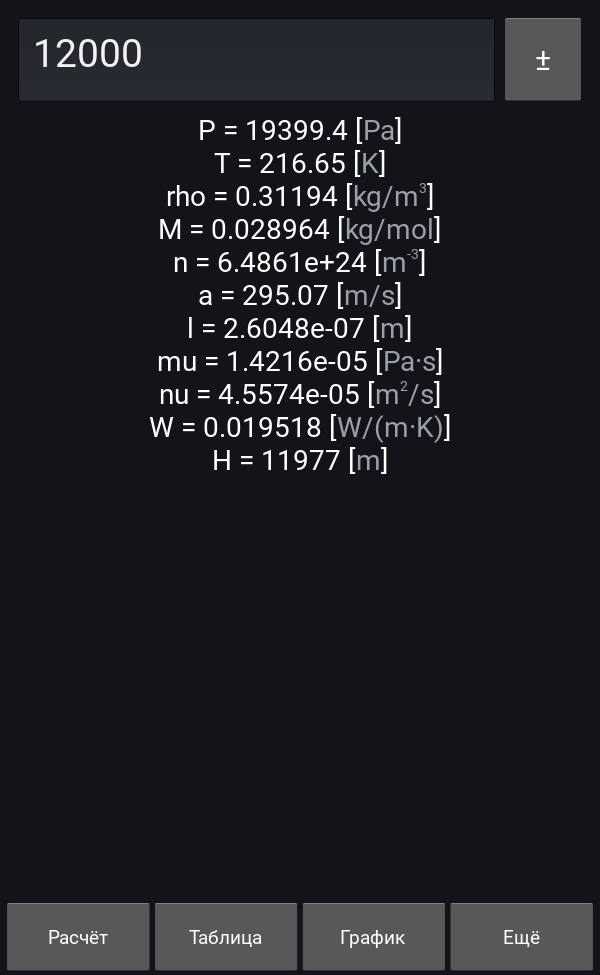
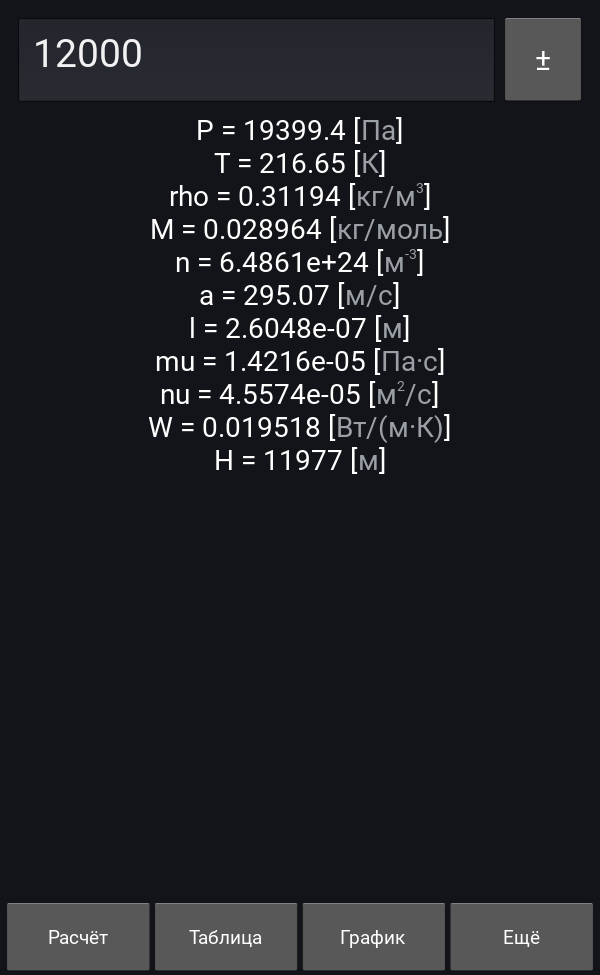
fix: localize parameter units on the calculation screen
- units come from i18n: Па/К/кг/м^3... in Russian, Pa/K/... in English
- parameter definitions keep translation keys instead of hard-coded units
- tests check that every unit key exists and follows the language

diff --git a/std81/formatting.py b/std81/formatting.py
@@ -1,14 +1,16 @@
 """Presentation of atmosphere parameters.
 
 The model returns SI floats; this module knows how to turn them into strings
-and which units and symbols to show.  UI-specific markup (Kivy, HTML, ...) is
-applied by the caller, not here.
+and which units and symbols to show.  Units are translated with
+:mod:`std81.i18n`.  UI-specific markup (Kivy, HTML, ...) is applied by the
+caller, not here.
 """
 
 from dataclasses import dataclass
 from math import floor, log10
 from typing import Optional, Tuple
 
+from . import i18n
 from .atmosphere import AtmosphereState
 
 
@@ -18,22 +20,22 @@ class Parameter:
 
     symbol: str
     attribute: str
-    unit: str
+    unit_key: str
     digits: int = 5
 
 
 PARAMETERS: Tuple[Parameter, ...] = (
-    Parameter('P', 'pressure', 'Pa', 6),
-    Parameter('T', 'temperature', 'K'),
-    Parameter('rho', 'density', 'kg/m^3'),
-    Parameter('M', 'molar_mass', 'kg/mol'),
-    Parameter('n', 'concentration', 'm^-3'),
-    Parameter('a', 'sound_speed', 'm/s'),
-    Parameter('l', 'mean_free_path', 'm'),
-    Parameter('mu', 'dynamic_viscosity', 'Pa\u00b7s'),
-    Parameter('nu', 'kinematic_viscosity', 'm^2/s'),
-    Parameter('W', 'thermal_conductivity', 'W/(m\u00b7K)'),
-    Parameter('H', 'geopotential_height', 'm'),
+    Parameter('P', 'pressure', 'unit_pa', 6),
+    Parameter('T', 'temperature', 'unit_k'),
+    Parameter('rho', 'density', 'unit_kg_m3'),
+    Parameter('M', 'molar_mass', 'unit_kg_mol'),
+    Parameter('n', 'concentration', 'unit_m3'),
+    Parameter('a', 'sound_speed', 'unit_m_s'),
+    Parameter('l', 'mean_free_path', 'unit_m'),
+    Parameter('mu', 'dynamic_viscosity', 'unit_pa_s'),
+    Parameter('nu', 'kinematic_viscosity', 'unit_m2_s'),
+    Parameter('W', 'thermal_conductivity', 'unit_w_mk'),
+    Parameter('H', 'geopotential_height', 'unit_m'),
 )
 
 Row = Tuple[str, str, str]
@@ -59,7 +61,10 @@ def format_number(value: Optional[float], digits: int = 5) -> str:
 def format_state(state: AtmosphereState) -> Tuple[Row, ...]:
     """Turn a computed state into ``(symbol, value, unit)`` rows."""
     return tuple(
-        (parameter.symbol, format_number(getattr(state, parameter.attribute), parameter.digits),
-         parameter.unit)
+        (
+            parameter.symbol,
+            format_number(getattr(state, parameter.attribute), parameter.digits),
+            i18n.tr(parameter.unit_key),
+        )
         for parameter in PARAMETERS
     )

diff --git a/std81/i18n.py b/std81/i18n.py
@@ -19,6 +19,16 @@ TRANSLATIONS: Dict[str, Dict[str, str]] = {
         'nav_table': 'Таблица',
         'nav_plot': 'График',
         'nav_settings': 'Ещё',
+        'unit_pa': 'Па',
+        'unit_k': 'К',
+        'unit_kg_m3': 'кг/м^3',
+        'unit_kg_mol': 'кг/моль',
+        'unit_m3': 'м^-3',
+        'unit_m_s': 'м/с',
+        'unit_m': 'м',
+        'unit_pa_s': 'Па·с',
+        'unit_m2_s': 'м^2/с',
+        'unit_w_mk': 'Вт/(м·К)',
         'calc_hint': 'Высота, м',
         'calc_empty': 'Введите высоту в метрах',
         'invalid_number': 'Введите высоту числом (метры).',
@@ -63,6 +73,16 @@ TRANSLATIONS: Dict[str, Dict[str, str]] = {
         'nav_table': 'Table',
         'nav_plot': 'Plot',
         'nav_settings': 'More',
+        'unit_pa': 'Pa',
+        'unit_k': 'K',
+        'unit_kg_m3': 'kg/m^3',
+        'unit_kg_mol': 'kg/mol',
+        'unit_m3': 'm^-3',
+        'unit_m_s': 'm/s',
+        'unit_m': 'm',
+        'unit_pa_s': 'Pa·s',
+        'unit_m2_s': 'm^2/s',
+        'unit_w_mk': 'W/(m·K)',
         'calc_hint': 'Height, m',
         'calc_empty': 'Enter height in meters',
         'invalid_number': 'Enter the height as a number (meters).',

diff --git a/tests/test_i18n.py b/tests/test_i18n.py
@@ -7,7 +7,7 @@ import unittest
 ROOT = os.path.dirname(os.path.dirname(os.path.abspath(__file__)))
 sys.path.insert(0, ROOT)
 
-from std81 import i18n  # noqa: E402
+from std81 import PARAMETERS, compute, format_state, i18n  # noqa: E402
 
 
 class TranslationTest(unittest.TestCase):
@@ -51,6 +51,23 @@ class TranslationTest(unittest.TestCase):
         codes = [code for code, _ in i18n.available_languages()]
         self.assertIn('ru', codes)
         self.assertIn('en', codes)
+
+    def test_unit_keys_exist_in_every_language(self):
+        for parameter in PARAMETERS:
+            for code, strings in i18n.TRANSLATIONS.items():
+                with self.subTest(language=code, key=parameter.unit_key):
+                    self.assertIn(parameter.unit_key, strings)
+
+    def test_units_follow_language(self):
+        state = compute(0)
+        i18n.set_language('ru')
+        russian = [row[2] for row in format_state(state)]
+        self.assertEqual(russian[0], 'Па')
+        self.assertIn('кг/м^3', russian)
+        i18n.set_language('en')
+        english = [row[2] for row in format_state(state)]
+        self.assertEqual(english[0], 'Pa')
+        self.assertIn('kg/m^3', english)
 
 
 if __name__ == '__main__':
